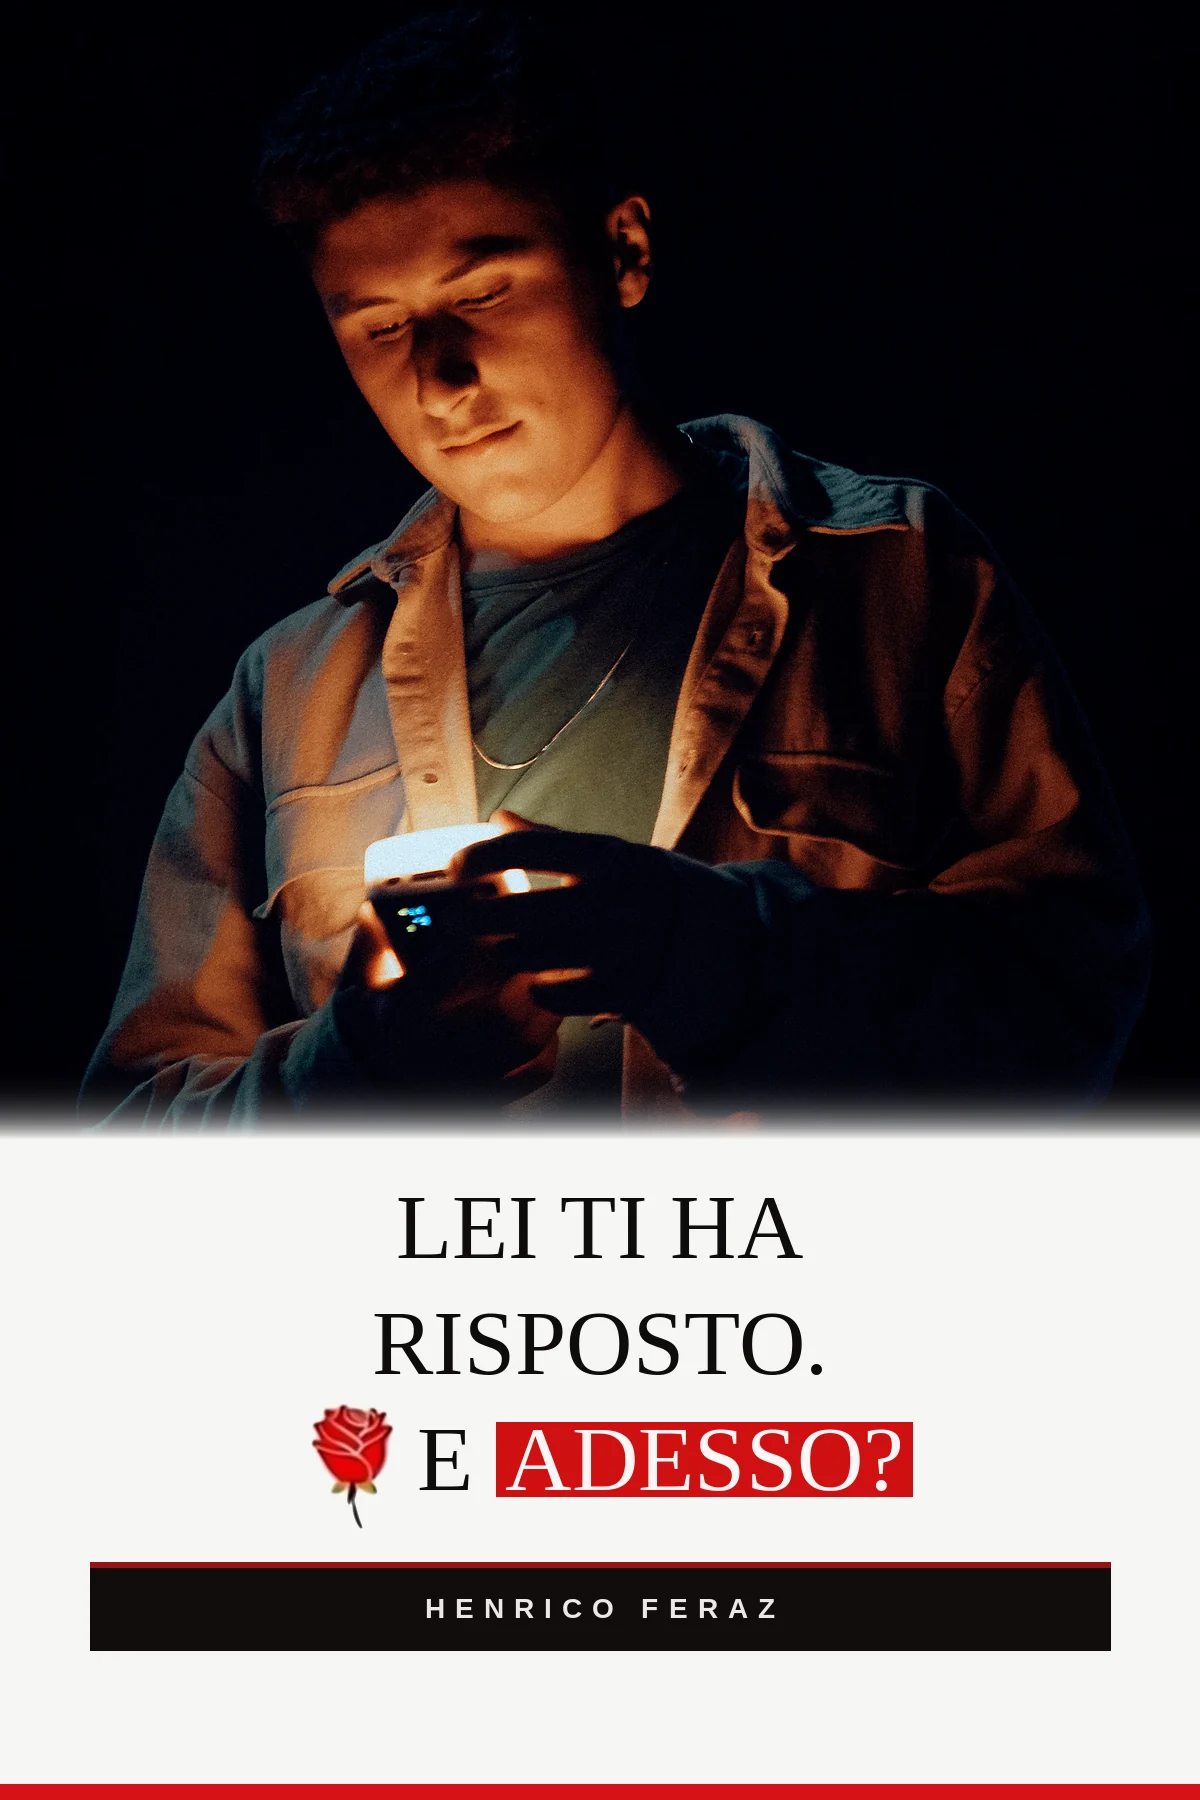
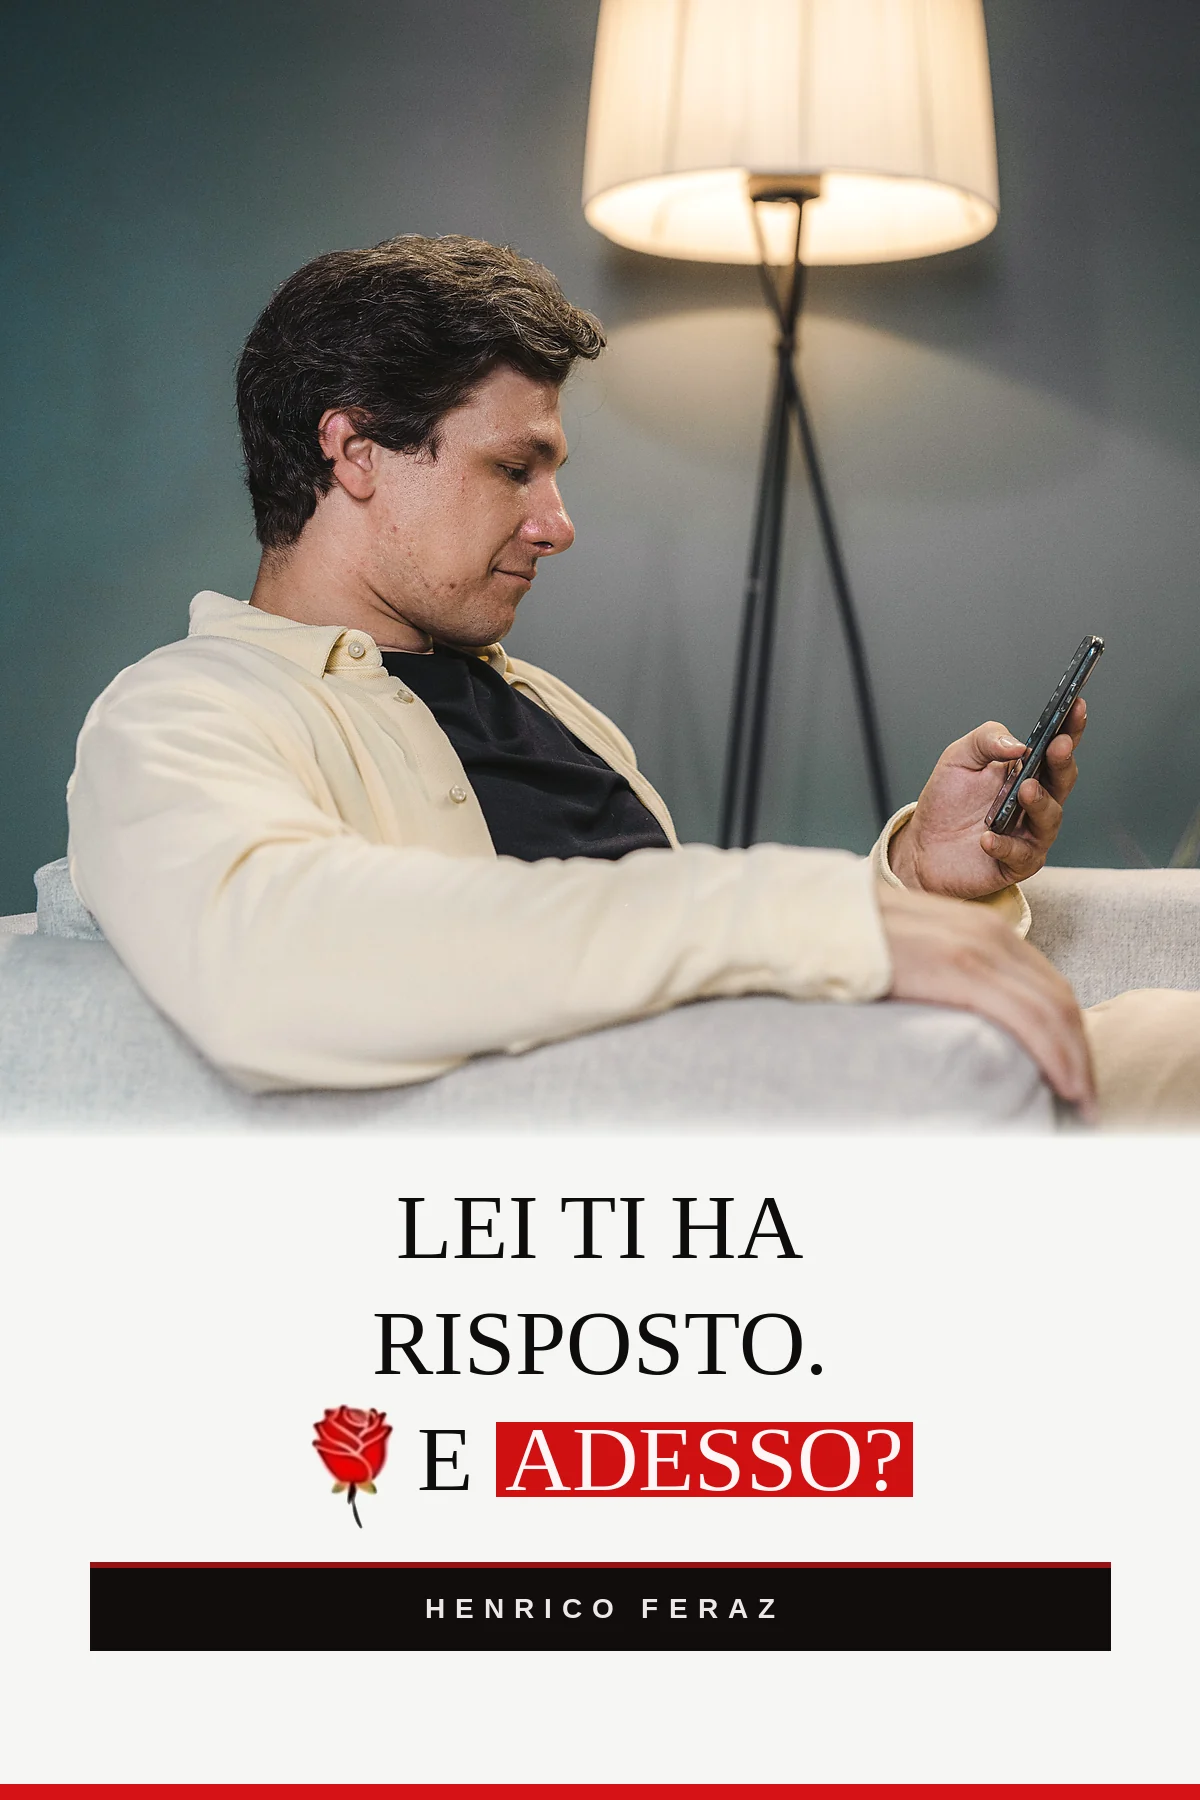
Capas dei bonus — Il Codice della Riconquista

diff --git a/reader.js b/reader.js
@@ -222,15 +222,15 @@
     var book = BOOKS[id];
     if (!book) return;
     var url = CFG[book.urlKey] || '#';
-    var img = id === 'bump1' ? 'assets/illust-lettera.webp' : 'assets/illust-sentiero.webp';
     $('preview-brand').textContent = book.title;
     var previewHtml = (id === 'bump1' ? C.bump1Preview : C.bump2Preview) || ph('ANTEPRIMA');
+    var lock = '<span class="book-lock" aria-hidden="true"><svg width="14" height="14" viewBox="0 0 24 24" fill="currentColor"><path d="M7 10V7.5a5 5 0 0 1 10 0V10h1.2A1.8 1.8 0 0 1 20 11.8v8.4a1.8 1.8 0 0 1-1.8 1.8H5.8A1.8 1.8 0 0 1 4 20.2v-8.4A1.8 1.8 0 0 1 5.8 10H7Zm2 0h6V7.5a3 3 0 0 0-6 0V10Z"/></svg></span>';
     $('preview-wrap').innerHTML =
       '<article class="preview-page">' +
       '<p class="kick">Anteprima · Bonus</p>' +
       '<h2>' + book.title + '</h2>' +
       '<span class="rule" style="width:72px;margin:12px 0 16px;height:10px;border-top:3px solid #db1726;background:#120d0d;display:block"></span>' +
-      '<figure class="fig"><img src="' + img + '" alt=""></figure>' +
+      '<figure class="preview-cover"><img src="' + book.cover + '" alt="' + book.title + '">' + lock + '</figure>' +
       previewHtml +
       '<div class="preview-cta"><a class="lk-btn" href="' + url + '" data-bump="' + book.bump + '" rel="noopener noreferrer">Sblocca</a></div>' +
       '</article>';

diff --git a/reader.css b/reader.css
@@ -175,6 +175,9 @@ html,body{margin:0;height:100%;overflow:hidden;overscroll-behavior:none;backgrou
 .preview-page h2{margin:8px 0 0;font:700 26px/1.15 var(--serif)}
 .preview-page .kick{margin:0;font:700 11px/1 var(--sans);letter-spacing:.28em;text-transform:uppercase;color:var(--red)}
 .preview-page .fig{margin:14px 0 16px}
+.preview-cover{position:relative;display:block;width:min(168px,52%);margin:4px auto 16px;aspect-ratio:2/3;border-radius:2px 7px 7px 2px;overflow:hidden;background:#1a1212;box-shadow:-6px 0 0 -4px #6e1018,0 10px 22px rgba(0,0,0,.28)}
+.preview-cover img{position:absolute;inset:0;width:100%;height:100%;object-fit:contain;background:#1a1212;filter:saturate(.75) brightness(.82)}
+.preview-cover .book-lock{top:6px;right:6px}
 .preview-page .txt{font:400 16px/1.5 var(--serif);margin:0 0 14px}
 .lk-btn{display:inline-flex;align-items:center;justify-content:center;gap:8px;margin-top:18px;min-height:48px;padding:0 28px;border-radius:999px;background:var(--red);color:#fff;text-decoration:none;font:700 14px/1 var(--sans);letter-spacing:.14em;text-transform:uppercase;box-shadow:0 0 0 4px rgba(255,111,156,.28);cursor:pointer}
 .lk-btn:active{background:#a80f1b}

diff --git a/sw.js b/sw.js
@@ -1,6 +1,6 @@
 /* Service worker do leitor. Para publicar uma versão nova: trocar VERSION (o cache antigo é apagado no activate). */
 /* Caminhos relativos ao escopo do SW: funciona em https://codicedellariconquista.com/leggi/ e em localhost:/leggi/. */
-var VERSION = 'rqit-leitor-v7';
+var VERSION = 'rqit-leitor-v9';
 var SCOPE = self.registration.scope;
 var PRECACHE = [
   './', 'index.html', 'reader.css', 'reader.js', 'content.js', 'config.js', 'access.js', 'manifest.webmanifest',
